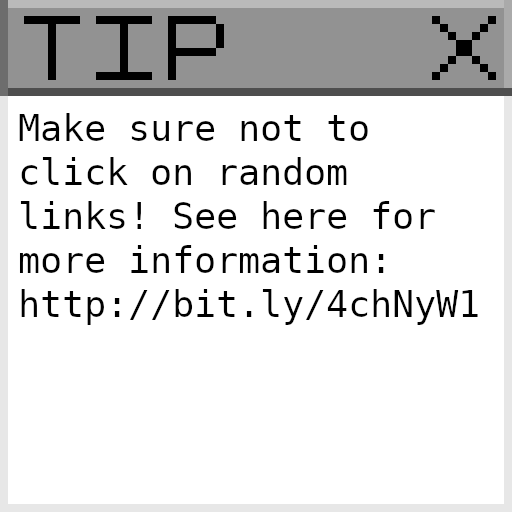
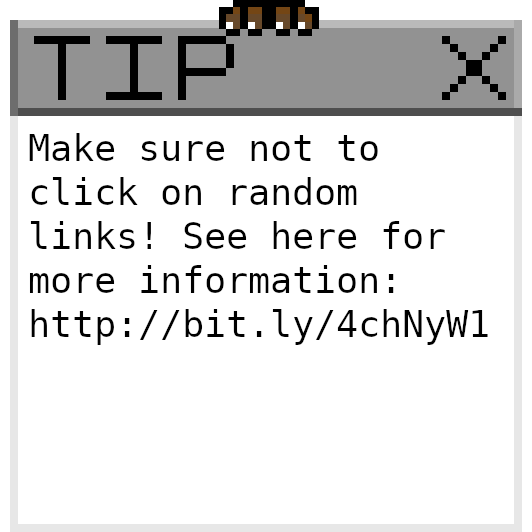
scratch + paw on tips

Changed region(s): [[0.0, 0.0, 1.0, 0.6562], [0.7188, 0.375, 0.8438, 0.4688]]

diff --git a/src/plugins/bonnie_state.rs b/src/plugins/bonnie_state.rs
@@ -728,8 +728,8 @@ fn update_birds(
 
 fn setup_scratch_sprite(mut commands: Commands, asset_server: Res<AssetServer>) {
     // get the sprite
-    let mut scratch_sprite = Sprite::from_image(asset_server.load("BonPaw.png"));
-    scratch_sprite.custom_size = Some(Vec2::new(40.0, 40.0));
+    let mut scratch_sprite = Sprite::from_image(asset_server.load("BonScratch.png"));
+    scratch_sprite.custom_size = Some(Vec2::new(60.0, 60.0));
 
     // add to scratch render layer
     commands.spawn((scratch_sprite, RenderLayers::layer(SCRATCH_LAYER)));
@@ -756,12 +756,12 @@ fn create_scratch(
                 titlebar_show_title: false,
                 title: "Scratch!".to_string(),
                 name: Some("bonnie.buddy".into()),
-                resolution: (40.0, 40.0).into(),
+                resolution: (60.0, 60.0).into(),
                 resize_constraints: WindowResizeConstraints {
-                    min_width: 40.0,
-                    min_height: 40.0,
-                    max_width: 40.0,
-                    max_height: 40.0,
+                    min_width: 60.0,
+                    min_height: 60.0,
+                    max_width: 60.0,
+                    max_height: 60.0,
                 },
                 window_level: WindowLevel::AlwaysOnTop,
                 position: pos,
